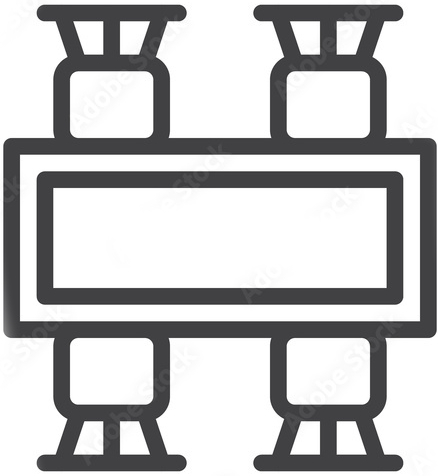
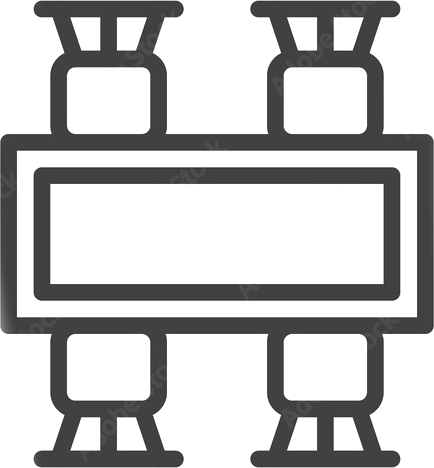
Changed to white dining table

diff --git a/src/views/TablePage.vue b/src/views/TablePage.vue
@@ -55,7 +55,7 @@
     height: 64px;
     width: 64px;
     background-size: contain;
-    background-image: url("@/assets/diningTable.jpg");
+    background-image: url("@/assets/diningTableWhite.png");
     cursor: pointer;
 }
 </style>
